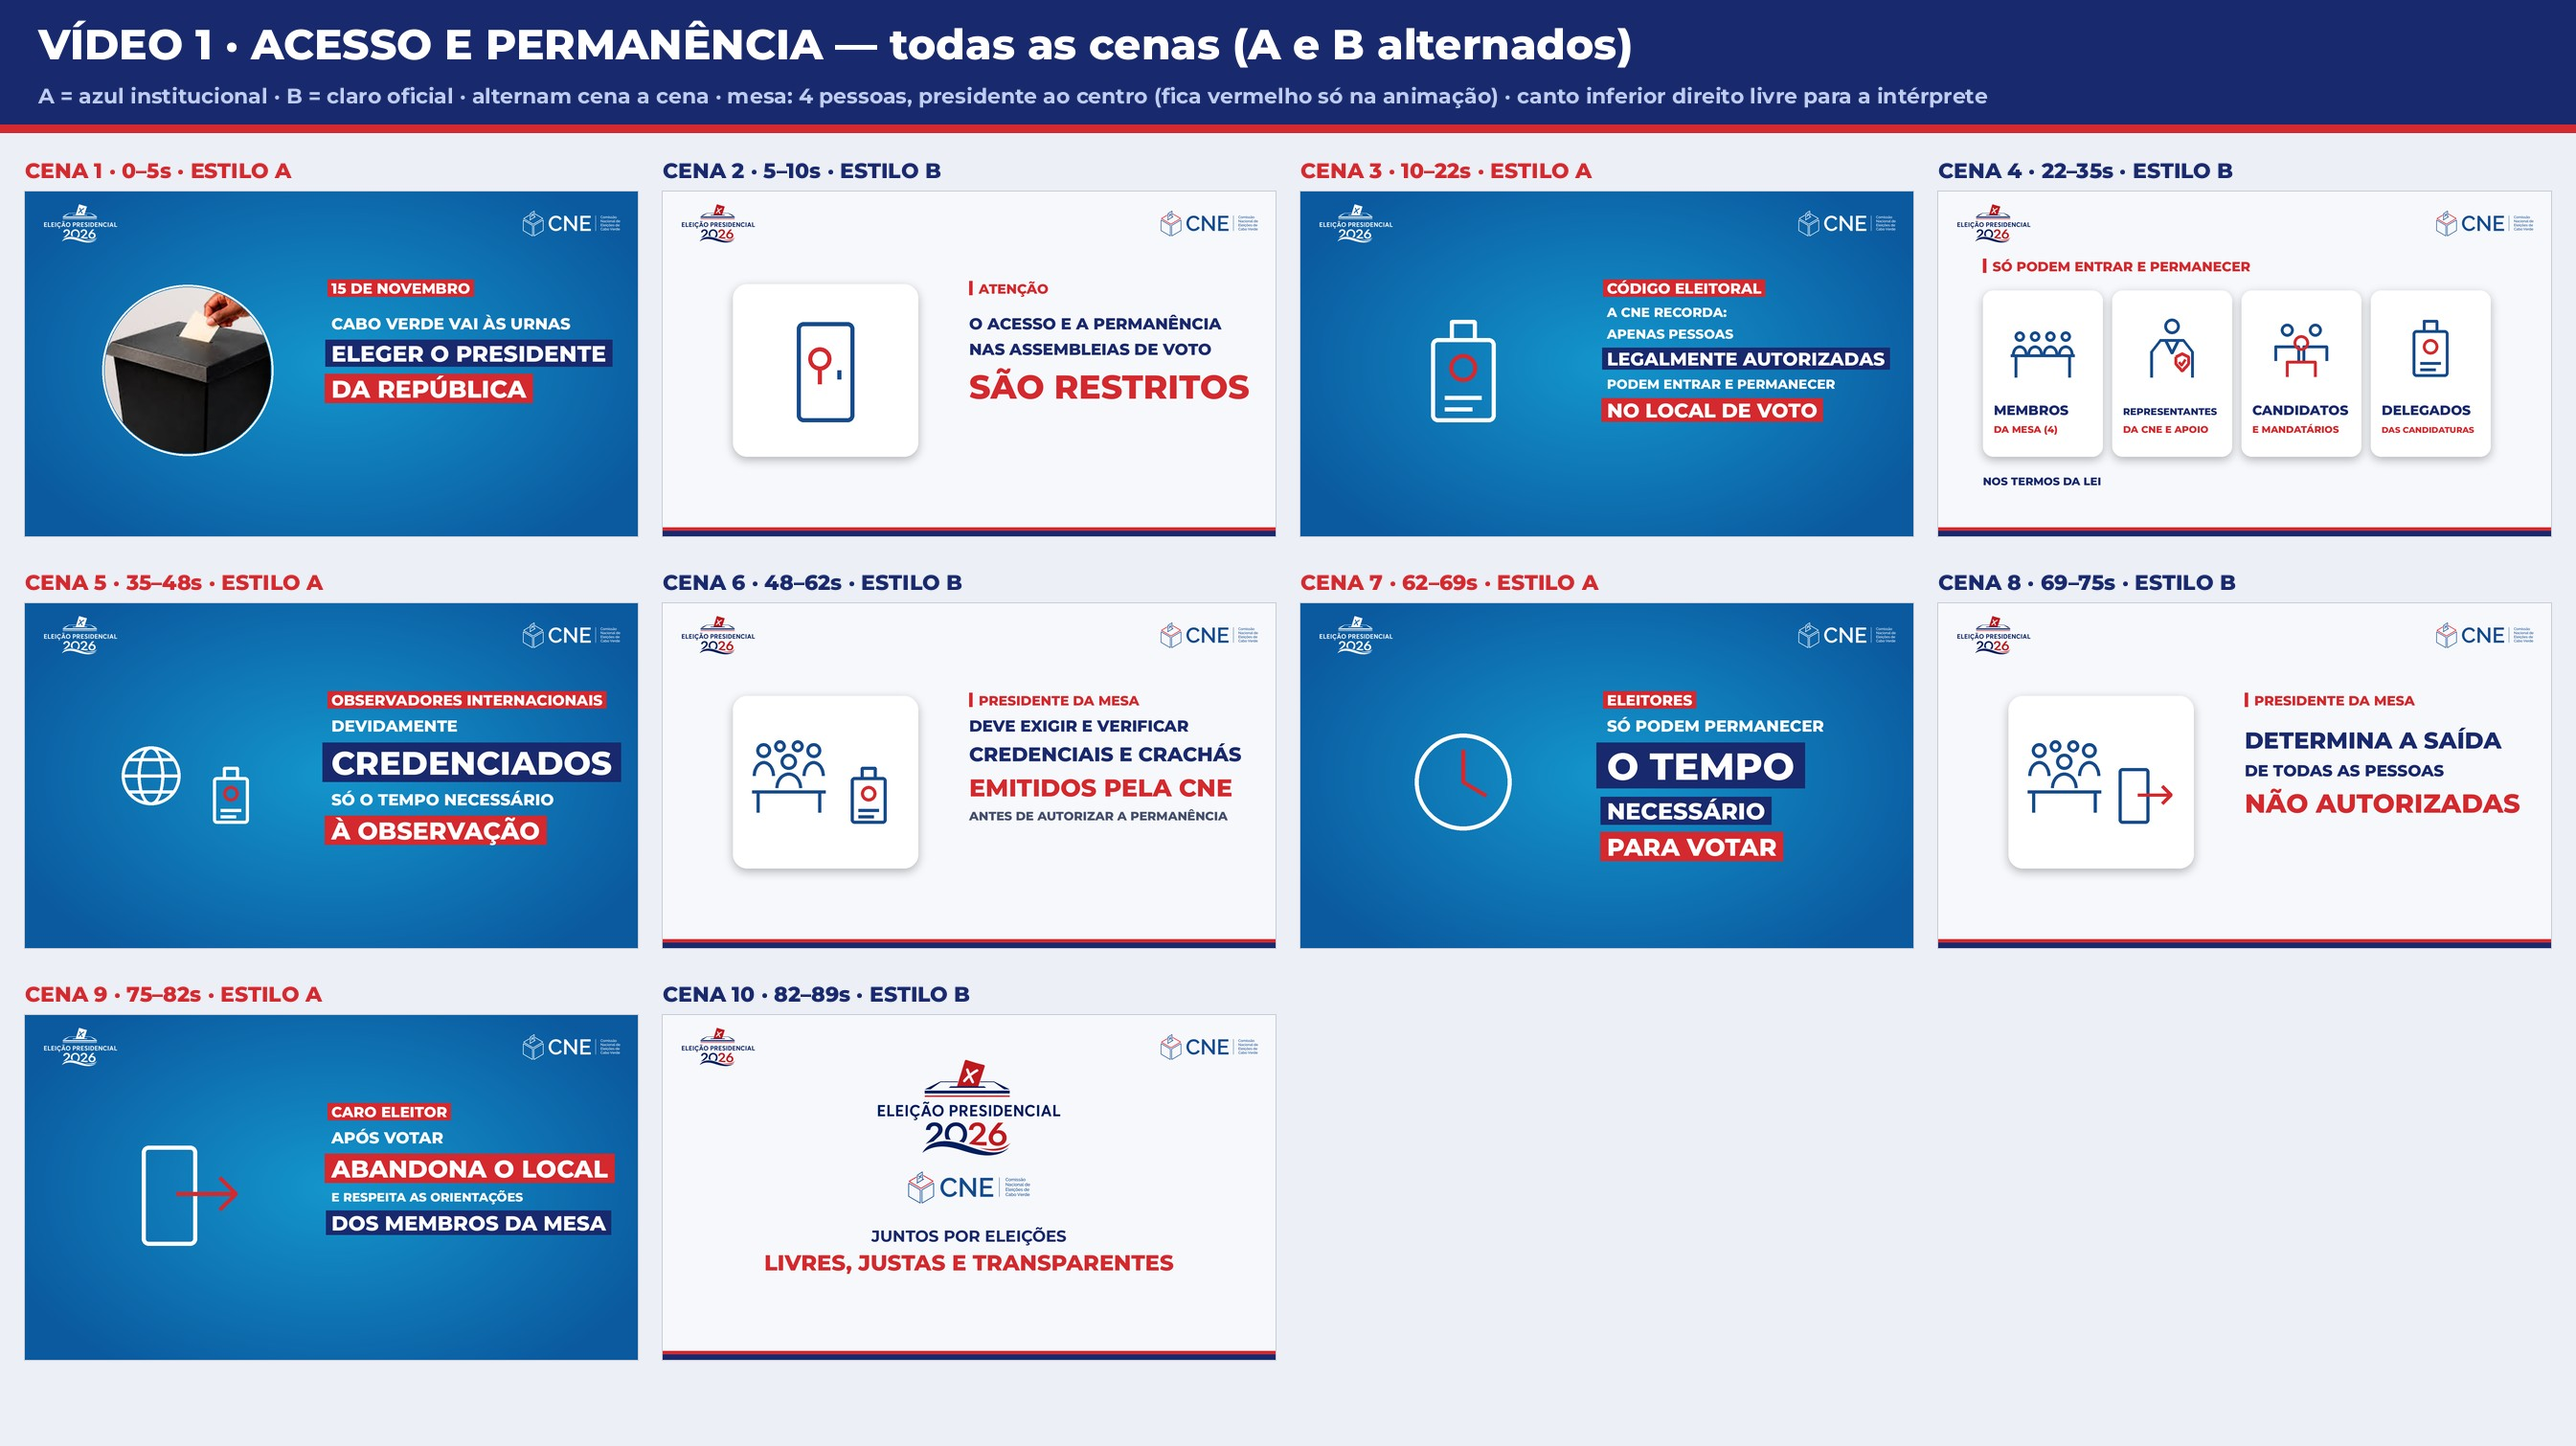
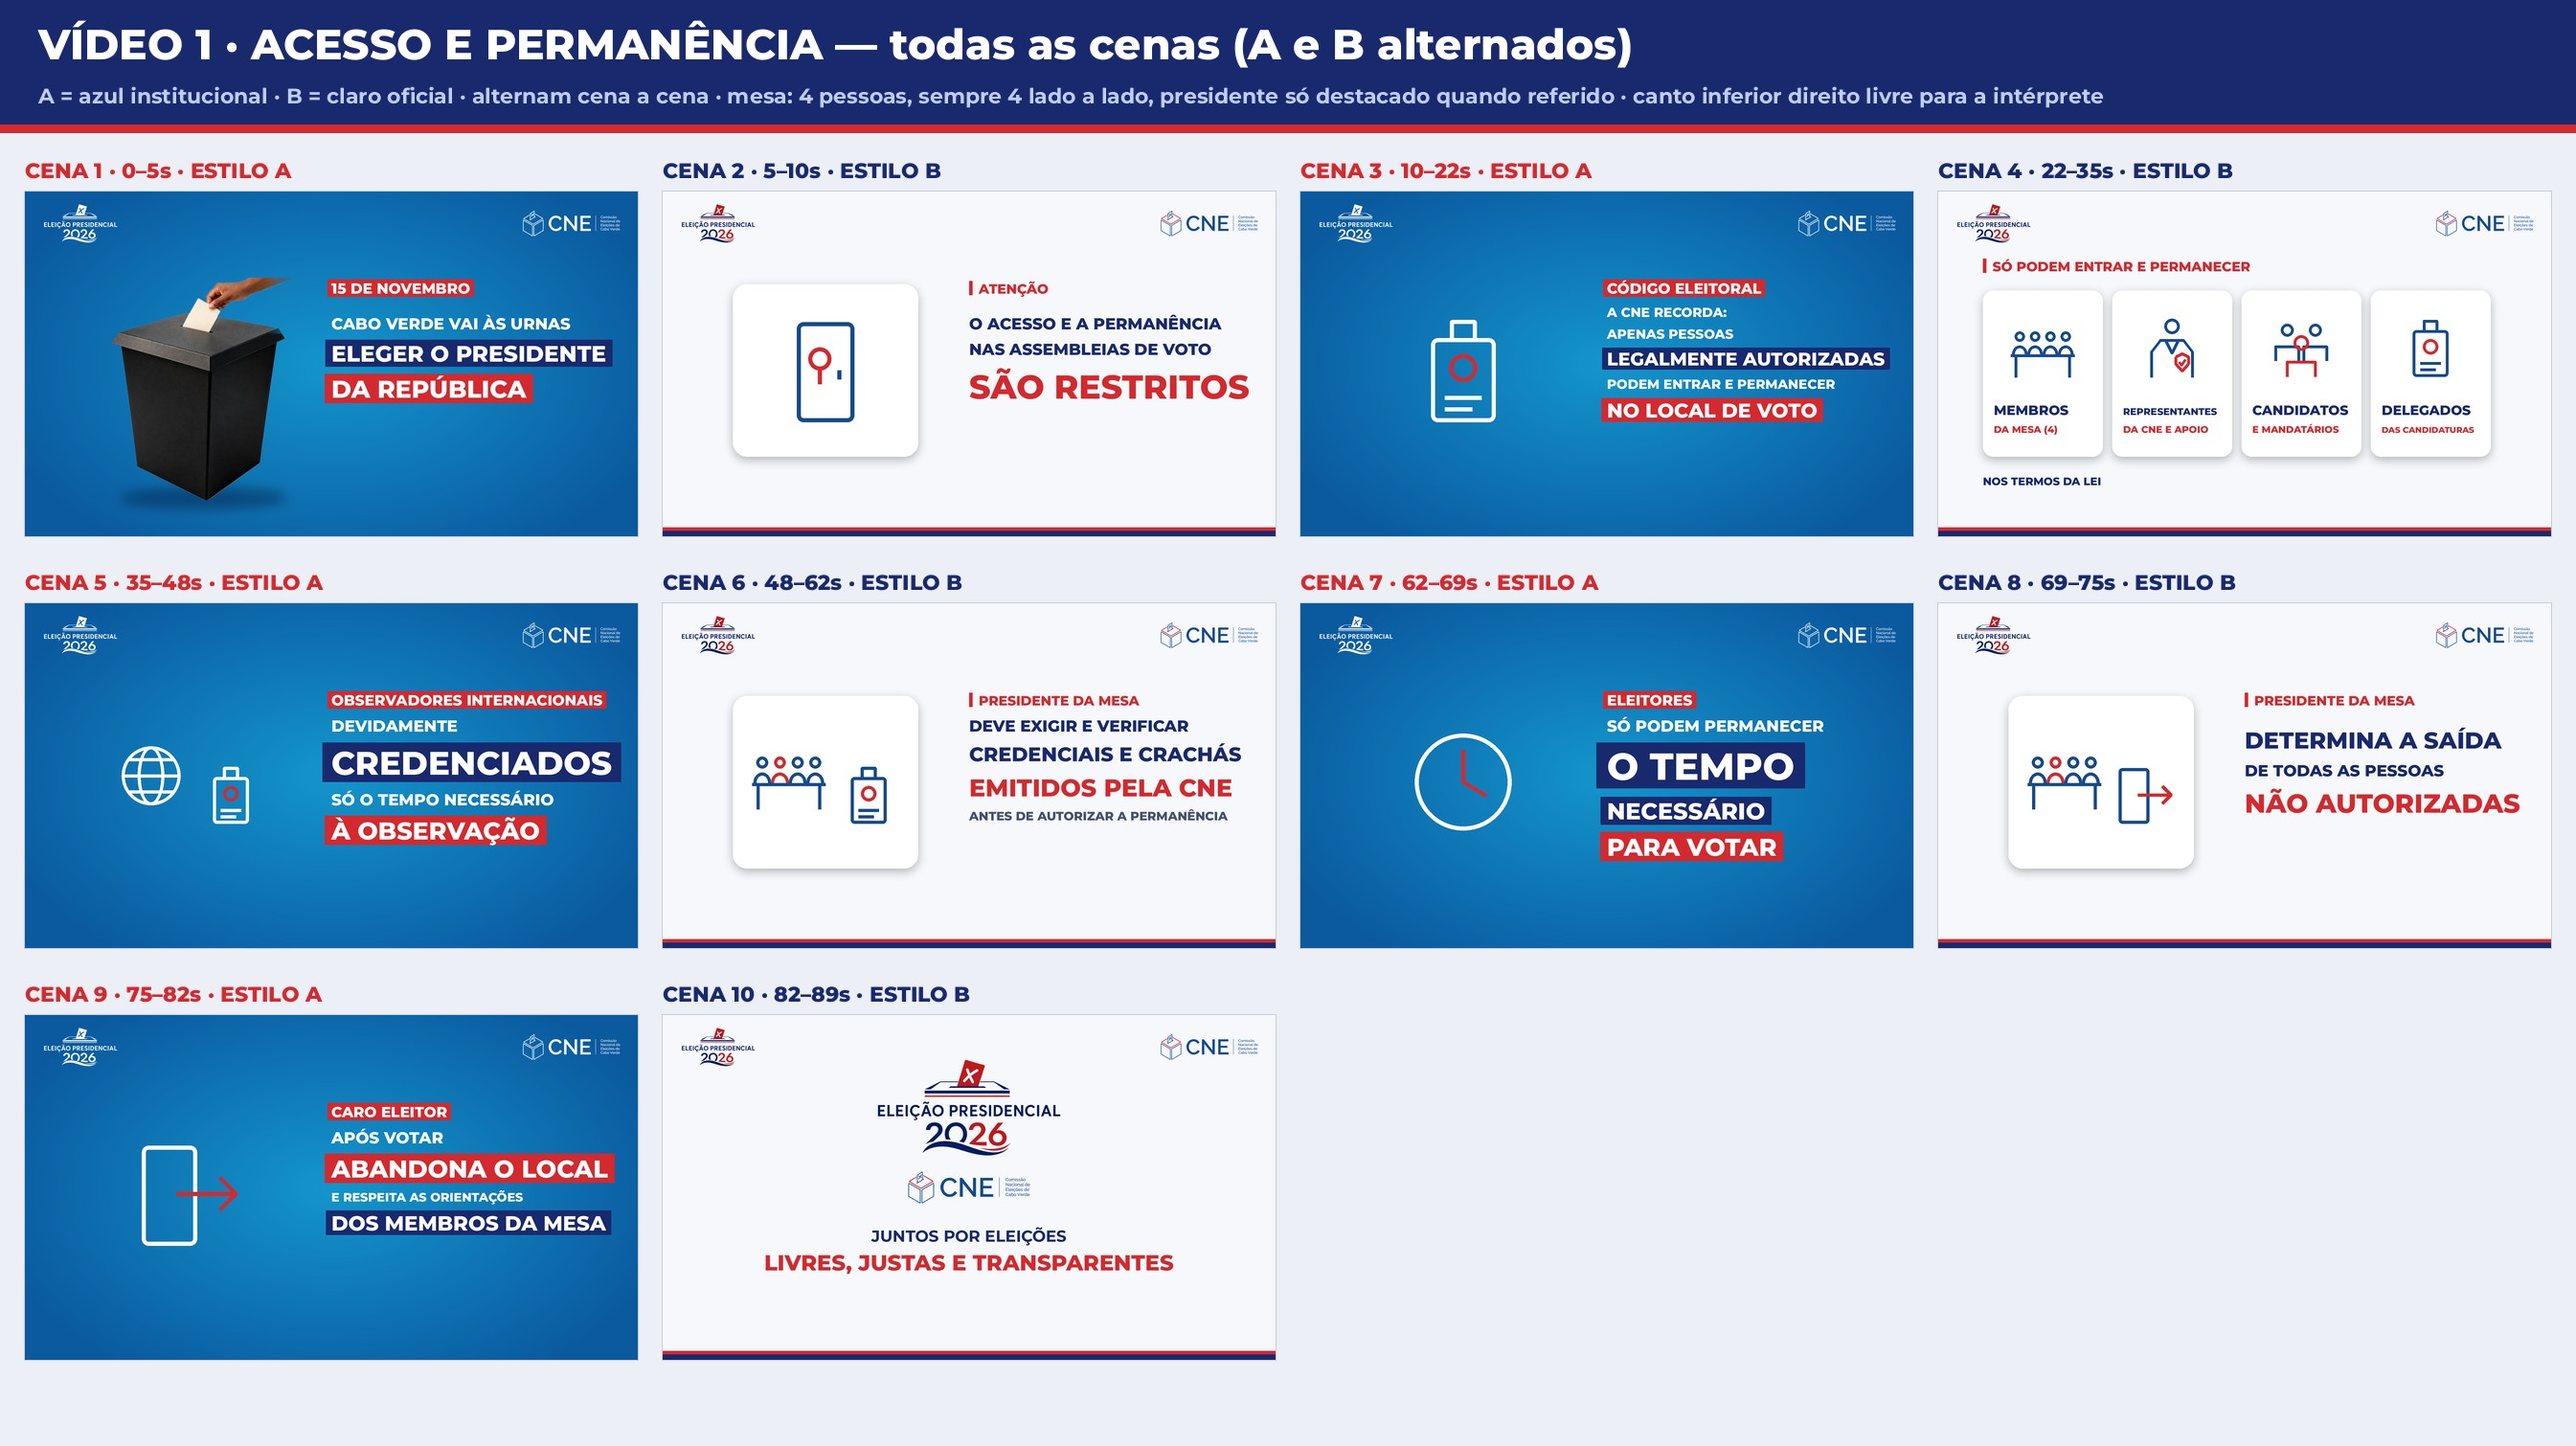
Blueprint V1: urna sem fundo na cena 1; mesa sempre 4 lado a lado, presidente só destacado
Claude-Session: https://claude.ai/code/session_01B7qCVcC1uXVL2xuSSAUW2M

diff --git a/comunicado_regras/novos_src/bp_v1all.py b/comunicado_regras/novos_src/bp_v1all.py
@@ -14,8 +14,9 @@ def icon(b,kind,cx,cy,s,col,acc=RED,w=None):
         el(30,2,46,18); el(54,2,70,18)
         el(39,20,61,42); ar(32,46,68,88)
         ln((0,72),(100,72)); ln((8,72),(8,100)); ln((92,72),(92,100)); return
-    if kind=='mesa4row':
-        for x in (14,38,62,86): el(x-8,24,x+8,40); ar(x-12,46,x+12,74)
+    if kind in('mesa4row','mesa4pres'):   # sempre igual; nas cenas do presidente só ele fica destacado
+        for i,x in enumerate((14,38,62,86)):
+            c=acc if (kind=='mesa4pres' and i==1) else col; el(x-8,24,x+8,40,c); ar(x-12,46,x+12,74,c)
         ln((0,62),(100,62)); ln((8,62),(8,96)); ln((92,62),(92,96)); return
     if kind=='cne':     # representante da CNE: pessoa com colete + escudo/crachá
         el(38,4,62,28); ln((18,96),(18,56),(32,38),(68,38),(82,56),(82,96)); ln((40,38),(50,58),(60,38))
@@ -36,9 +37,9 @@ S=[ # (estilo, t, ícones, kicker, linhas[(texto,papel)])
  ('A','10–22s',['cracha'],'CÓDIGO ELEITORAL',[('A CNE RECORDA:','n'),('APENAS PESSOAS','n'),('LEGALMENTE AUTORIZADAS','b'),('PODEM ENTRAR E PERMANECER','n'),('NO LOCAL DE VOTO','r')]),
  ('B','22–35s','LISTA','SÓ PODEM ENTRAR E PERMANECER',None),
  ('A','35–48s',['globo','cracha'],'OBSERVADORES INTERNACIONAIS',[('DEVIDAMENTE','n'),('CREDENCIADOS','hn'),('SÓ O TEMPO NECESSÁRIO','n'),('À OBSERVAÇÃO','r')]),
- ('B','48–62s',['mesa4','cracha'],'PRESIDENTE DA MESA',[('DEVE EXIGIR E VERIFICAR','n'),('CREDENCIAIS E CRACHÁS','b'),('EMITIDOS PELA CNE','r'),('ANTES DE AUTORIZAR A PERMANÊNCIA','s')]),
+ ('B','48–62s',['mesa4pres','cracha'],'PRESIDENTE DA MESA',[('DEVE EXIGIR E VERIFICAR','n'),('CREDENCIAIS E CRACHÁS','b'),('EMITIDOS PELA CNE','r'),('ANTES DE AUTORIZAR A PERMANÊNCIA','s')]),
  ('A','62–69s',['relogio'],'ELEITORES',[('SÓ PODEM PERMANECER','n'),('O TEMPO','hn'),('NECESSÁRIO','b'),('PARA VOTAR','r')]),
- ('B','69–75s',['mesa4','saida'],'PRESIDENTE DA MESA',[('DETERMINA A SAÍDA','b'),('DE TODAS AS PESSOAS','n'),('NÃO AUTORIZADAS','h')]),
+ ('B','69–75s',['mesa4pres','saida'],'PRESIDENTE DA MESA',[('DETERMINA A SAÍDA','b'),('DE TODAS AS PESSOAS','n'),('NÃO AUTORIZADAS','h')]),
  ('A','75–82s',['saida'],'CARO ELEITOR',[('APÓS VOTAR','n'),('ABANDONA O LOCAL','h'),('E RESPEITA AS ORIENTAÇÕES','s'),('DOS MEMBROS DA MESA','b')]),
  ('B','82–89s','FIM',None,[('JUNTOS POR ELEIÇÕES','n'),('LIVRES, JUSTAS E TRANSPARENTES','r')])]
 SZ={'n':50,'b':72,'r':76,'s':38,'h':118,'hn':118}
@@ -73,10 +74,10 @@ def scene(sc):
         paste(b,LOGO_COR,960-int(LOGO_COR.width*300/LOGO_COR.height)//2,140,300); paste(b,LOGO_CNE,960-int(LOGO_CNE.width*100/LOGO_CNE.height)//2,490,100)
         d=ImageDraw.Draw(b); d.text((960,710),'JUNTOS POR ELEIÇÕES',font=f(50,7),fill=NAVY,anchor='ms'); d.text((960,800),'LIVRES, JUSTAS E TRANSPARENTES',font=f(68),fill=RED,anchor='ms'); return b
     ci=WHITE if st=='A' else CBLUE
-    if ics==['FOTO']:
-        ph=Image.open(HERE+'/logos/ref_urna.png').convert('RGBA'); sz_=520; ph=ph.resize((int(ph.width*sz_/ph.height*1.05),int(sz_*1.05)),Image.LANCZOS)
-        ph=ph.crop(((ph.width-sz_)//2,0,(ph.width-sz_)//2+sz_,sz_)); m=Image.new('L',(sz_,sz_),0); ImageDraw.Draw(m).ellipse((0,0,sz_,sz_),fill=255); ph.putalpha(m)
-        b.alpha_composite(ph,(250,300)); ImageDraw.Draw(b).ellipse((242,292,250+sz_+8,300+sz_+8),outline=WHITE,width=6)
+    if ics==['FOTO']:   # imagem sem fundo, sem moldura
+        ph=Image.open(HERE+'/logos/urna_mao.png').convert('RGBA'); hh=700; ph=ph.resize((int(ph.width*hh/ph.height),hh),Image.LANCZOS)
+        sh=Image.new('RGBA',b.size,(0,0,0,0)); ImageDraw.Draw(sh).ellipse((300,930,820,990),fill=(0,20,60,110)); b.alpha_composite(sh.filter(ImageFilter.GaussianBlur(18)))
+        b.alpha_composite(ph,(560-ph.width//2,270))
         ics=[]
     if st=='B': card(b,(220,290,800,830),WHITE,44)
     if not ics: pass
@@ -91,7 +92,7 @@ BW=gap+cols*(tw+gap); BH=top+rows*(th+70)+20
 bd=Image.new('RGB',(BW,BH),(236,239,245)); d=ImageDraw.Draw(bd)
 d.rectangle((0,0,BW,130),fill=NAVY); d.rectangle((0,130,BW,138),fill=RED)
 d.text((40,62),'VÍDEO 1 · ACESSO E PERMANÊNCIA — todas as cenas (A e B alternados)',font=f(44),fill=WHITE,anchor='ls')
-d.text((40,108),'A = azul institucional · B = claro oficial · alternam cena a cena · mesa: 4 pessoas, presidente ao centro (fica vermelho só na animação) · canto inferior direito livre para a intérprete',font=f(22,7),fill=(190,205,240),anchor='ls')
+d.text((40,108),'A = azul institucional · B = claro oficial · alternam cena a cena · mesa: 4 pessoas, sempre 4 lado a lado, presidente só destacado quando referido · canto inferior direito livre para a intérprete',font=f(22,7),fill=(190,205,240),anchor='ls')
 for i,sc in enumerate(S):
     x=gap+(i%cols)*(tw+gap); y=top+(i//cols)*(th+70)
     d.text((x,y-14),f'CENA {i+1} · {sc[1]} · ESTILO {sc[0]}',font=f(22),fill=NAVY if sc[0]=='B' else RED,anchor='ls')
